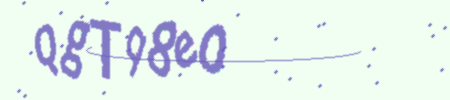
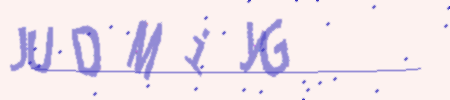
create captcha

diff --git a/Day 6/image.py b/Day 6/image.py
@@ -1,3 +1,5 @@
+# Pip install captcha
+
 from captcha.image import ImageCaptcha
 import random
 
